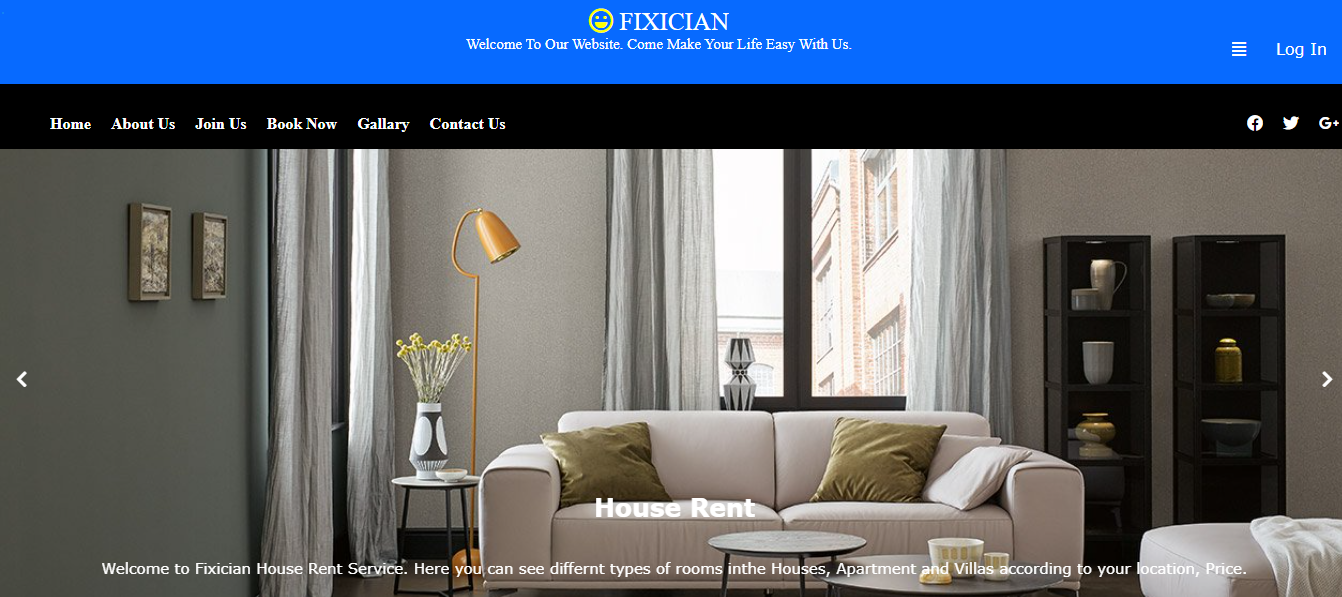
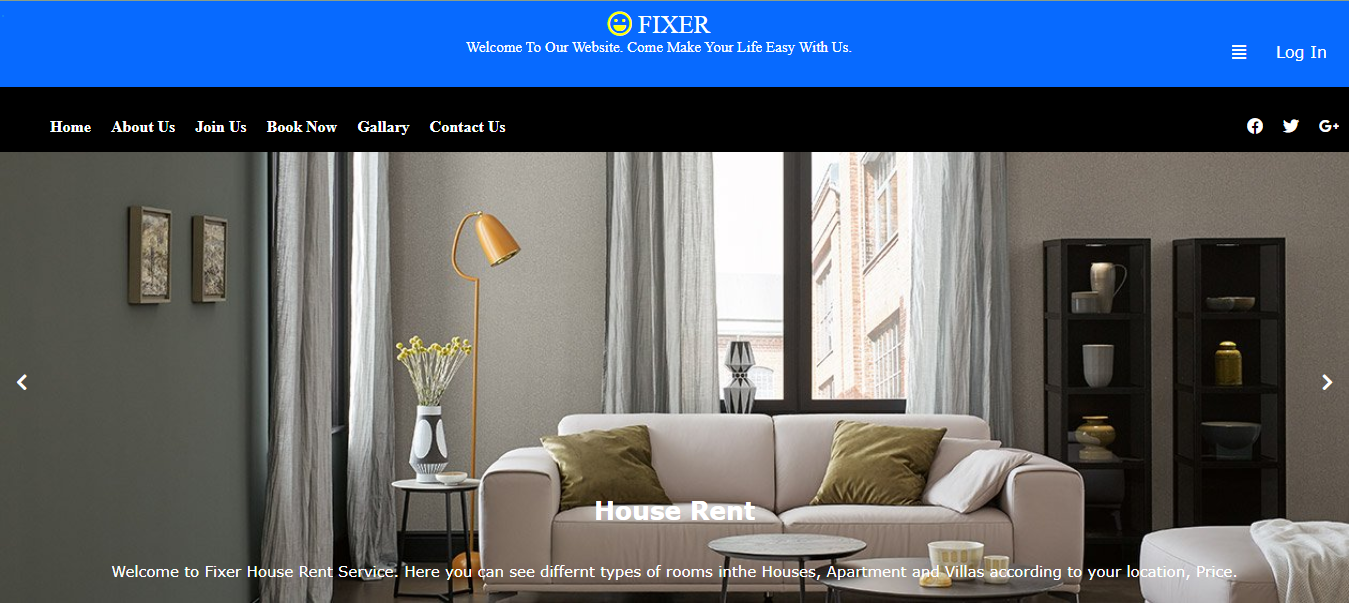
update

diff --git a/index.html b/index.html
@@ -219,7 +219,7 @@
 
       <div class="main2">
         <div class="description" style="margin-right: 3%;">
-          <h3 class="p-title">TRAVEL WORLD</h3>
+          <a href="http://samikshya.freecluster.eu/"><h3 class="p-title">TRAVEL WORLD</h3></a>
           <b><p>Description:</p></b>
             <div>  
               <p> I have completed this project by myself. Its aim was to let know people about new places.</p>
@@ -227,10 +227,10 @@
               <p>Backend: PHP.<br>
               Frontend: HTML, CSS, Bootstrap, JavaScript, jQuery and Ajax.<br>
               Database: MySql.<br></p>
-              <p><u><a href="" style="color: red;">Click Here </a></u>&nbsp;to see the complete project...</p>
+              <p><u><a href="http://samikshya.freecluster.eu/" style="color: red;">Click Here </a></u>&nbsp;to see the complete project...</p>
             </div>
           </div>
-        <div class="m-p-img"><div class="project-img"><img src="images/travel.png" alt="img"></div></div>
+        <div class="m-p-img"><a href="http://samikshya.freecluster.eu/"><div class="project-img"><img src="images/travel.png" alt="img"></div></a></div>
       </div>
 
       <div class="main2">
@@ -251,7 +251,7 @@
 
       <div class="main2">
         <div class="description" style="margin-right: 3%;">
-          <h3 class="p-title">FIXICIAN</h3>
+          <a href="http://fixerr.freecluster.eu/"><h3 class="p-title">FIXER</h3></a>
           <b><p>Description:</p></b>
             <div>  
               <p> I have completed this project (Major Project) during my B.tech. Its aim is to help people to communicate with house renter, plumber and electrician.</p>
@@ -259,10 +259,10 @@
               <p>Backend: PHP.<br>
               Frontend: HTML, CSS, Bootstrap and JavaScript.<br>
               Database: MySql.<br></p>
-              <p><u><a href="" style="color: red;">Click Here </a></u>&nbsp;to see the complete project...</p>
+              <p><u><a href="http://fixerr.freecluster.eu/" style="color: red;">Click Here </a></u>&nbsp;to see the complete project...</p>
             </div>
           </div>
-        <div class="m-p-img"><div class="project-img"><img src="images/fixician.png" alt="img"></div></div>
+        <div class="m-p-img"><a href="http://fixerr.freecluster.eu/"><div class="project-img"><img src="images/fixician.png" alt="img"></div></a></div>
       </div>
 
       <div class="main2">
